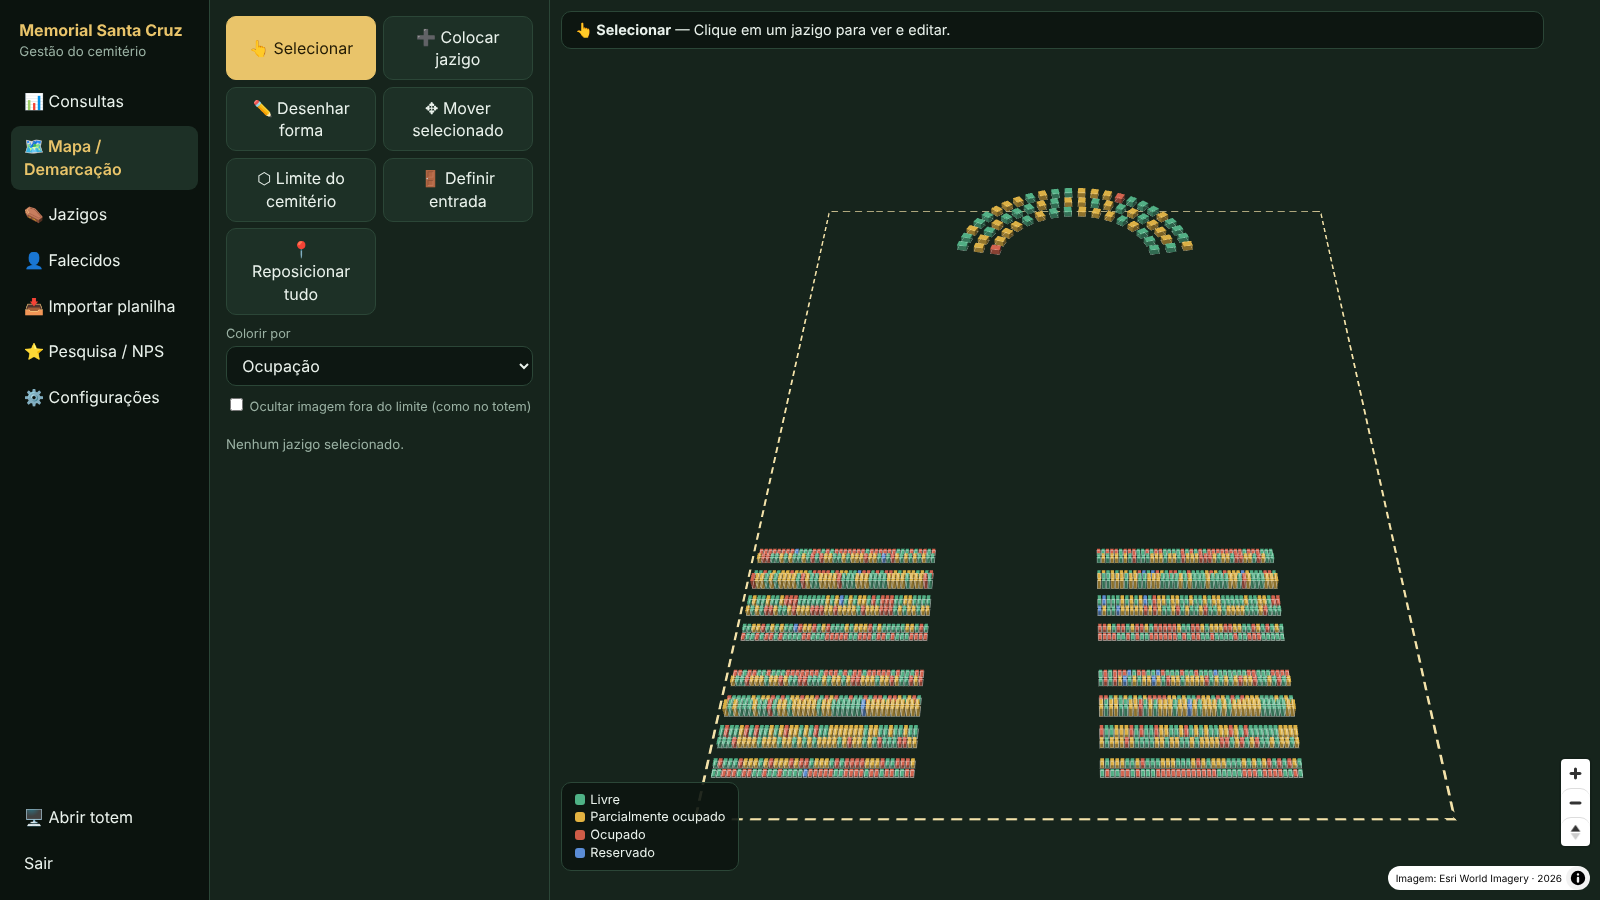
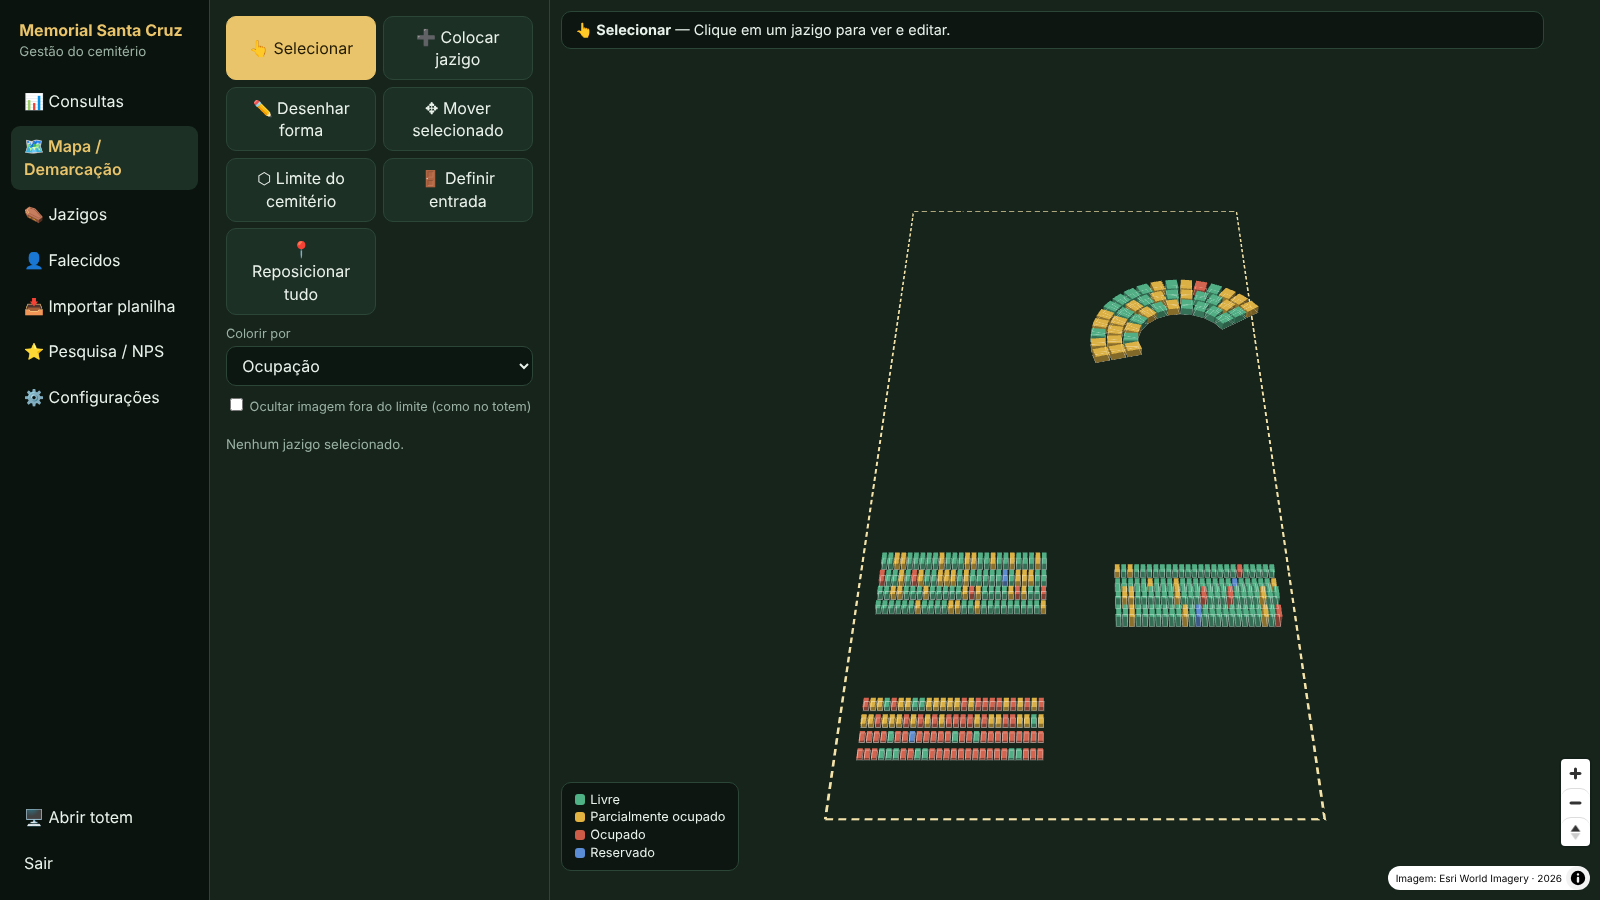
Layout de demonstração no formato real (6 alamedas, anfiteatro), escala/rotação do layout e seed único
Claude-Session: https://claude.ai/code/session_013UyDinwhvvSYJNZEQaNqQd

diff --git a/seed.js b/seed.js
@@ -18,9 +18,10 @@ export function seedDemo({ db, TYPES, getConfig, setConfig, norm, tx }) {
     return { type: 'Polygon', coordinates: [[...pts, pts[0]]] };
   };
 
-  const W = 240, H = 330; // terreno
+  // Terreno estreito (≈110 × 230 m, estimado a partir das imagens de satélite): entrada ao sul, anfiteatro ao norte/direita.
+  const W = 110, H = 230;
   const boundary = { type: 'Polygon', coordinates: [[pt(-W / 2, -H / 2), pt(W / 2, -H / 2), pt(W / 2, H / 2), pt(-W / 2, H / 2), pt(-W / 2, -H / 2)]] };
-  setConfig({ ...cfg, boundary, entrance: pt(0, -H / 2 + 4), zoom: 17.3 });
+  setConfig({ ...cfg, boundary, entrance: pt(13, -H / 2 + 3), zoom: 17.6, bearing: 0, pitch: 50 });
 
   const insPlot = db.prepare('INSERT INTO plots(code,type,alameda,quadra,lote,geometry,demo,reserved) VALUES(?,?,?,?,?,?,1,?)');
   const insDec = db.prepare('INSERT INTO deceased(name,name_norm,plot_id,drawer,kind,birth_date,death_date,event_date,responsible,phone,notes,demo) VALUES(?,?,?,?,?,?,?,?,?,?,?,1)');
@@ -41,38 +42,40 @@ export function seedDemo({ db, TYPES, getConfig, setConfig, norm, tx }) {
   }
 
   tx(() => {
-    // 4 quadras (A–D) na parte da frente, cada uma com alamedas; tipo varia por fileira
-    const rowTypes = ['1G', '2G', '3G', '3GS', '6GS', '2G', '3G', '1G'];
-    const blocks = [['A', -118, -150], ['B', 8, -150], ['C', -118, -95], ['D', 8, -95]];
-    for (const [q, bx, by] of blocks) {
-      const cols = 40, colW = 1.2 + 0.45;
-      let y = by;
-      for (let r = 0; r < rowTypes.length; r++) {
-        const type = rowTypes[r], t = TYPES[type], rowH = t.h;
-        const alameda = String(Math.floor(r / 2) + 1);
-        for (let c = 0; c < cols; c++) {
-          const x = bx + c * colW + colW / 2;
-          const code = `${q}-${alameda}-${String(r * cols + c + 1).padStart(3, '0')}`;
-          const reserved = rnd() < 0.05 ? 1 : 0;
-          const id = Number(insPlot.run(code, type, `Alameda ${alameda}`, `Quadra ${q}`, String(r * cols + c + 1), JSON.stringify(rect(x, y + rowH / 2, t.w, rowH, 0)), reserved).lastInsertRowid);
-          if (rnd() < 0.6) fill(id, type, 1 + Math.floor(rnd() * TYPES[type].cap));
+    // 6 alamedas em 3 quadras (gramados à esquerda e à direita da alameda central). Cada alameda = corredor com uma fileira de jazigos de cada lado.
+    // [quadra, x0, x1, y0, [[alameda, tipo]...], ocupação]
+    const quadras = [
+      ['A', -50, -6, -100, [[1, '1G'], [2, '2G']], 0.85],   // sul-esquerda: onde já há sepulturas
+      ['B', -50, -6, -58, [[3, '3G'], [4, '3GS']], 0.3],    // gramado esquerdo (expansão)
+      ['C', 10, 52, -62, [[5, '6GS'], [6, '3G']], 0.2],     // gramado direito (expansão)
+    ];
+    for (const [q, x0, x1, y0, alamedas, occ] of quadras) {
+      const colW = 1.2 + 0.45, cols = Math.floor((x1 - x0) / colW);
+      let y = y0, n = 0;
+      for (const [al, type] of alamedas) {
+        const t = TYPES[type];
+        for (const side of [0, 1]) {            // 0 = fileira sul, 1 = fileira norte (corredor de 2 m entre elas)
+          const cy = y + (side ? t.h + 2 + t.h / 2 : t.h / 2);
+          for (let c = 0; c < cols; c++) {
+            n++;
+            const code = `${q}-${al}-${String(n).padStart(3, '0')}`;
+            const id = Number(insPlot.run(code, type, `Alameda ${al}`, `Quadra ${q}`, String(n), JSON.stringify(rect(x0 + c * colW + colW / 2, cy, t.w, t.h, 0)), rnd() < 0.04 ? 1 : 0).lastInsertRowid);
+            if (rnd() < occ) fill(id, type, 1 + Math.floor(rnd() * TYPES[type].cap));
+          }
         }
-        y += rowH + (r % 2 === 1 ? 5 : 0.9); // alameda (corredor) a cada duas fileiras
+        y += 2 * t.h + 2 + 1.5;
       }
     }
-    // Anfiteatro ao fundo + terrenos familiares ao redor (anéis de blocos 6 gavetas c/ área de serviço)
-    const cx = 0, cy = 125;
-    const rings = [[38, 16], [46, 20], [54, 24]];
+    // Anfiteatro (centro da concha ≈ 33 m a leste, 46 m ao norte) com terrenos familiares em leque ao redor
+    const cx = 33, cy = 46;
     let n = 0;
-    rings.forEach(([R, count], ri) => {
+    [[16, 11], [21, 14], [26, 17]].forEach(([R, count], ri) => {
       for (let i = 0; i < count; i++) {
-        const ang = Math.PI + (i + 0.5) * (Math.PI / count) * -1 + Math.PI; // semicírculo voltado para o fundo
-        const a = Math.PI * (0.06 + (0.88 * i) / (count - 1));            // 0..π (lado norte)
-        const x = cx + R * Math.cos(a), y = cy + R * Math.sin(a);
-        const rot = (a * 180) / Math.PI - 90;
+        const a = ((35 + (160 * i) / (count - 1)) * Math.PI) / 180;
         n++;
-        const id = Number(insPlot.run(`F-${String(n).padStart(2, '0')}`, 'FAM', `Anel ${ri + 1}`, 'Anfiteatro', String(n), JSON.stringify(rect(x, y, TYPES.FAM.w, TYPES.FAM.h, rot)), 0).lastInsertRowid);
-        if (rnd() < 0.55) fill(id, 'FAM', 1 + Math.floor(rnd() * 6));
+        const id = Number(insPlot.run(`F-${String(n).padStart(2, '0')}`, 'FAM', `Anel ${ri + 1}`, 'Anfiteatro', String(n),
+          JSON.stringify(rect(cx + R * Math.cos(a), cy + R * Math.sin(a), TYPES.FAM.w, TYPES.FAM.h, (a * 180) / Math.PI - 90)), 0).lastInsertRowid);
+        if (rnd() < 0.5) fill(id, 'FAM', 1 + Math.floor(rnd() * 6));
       }
     });
     // Histórico fictício de consultas no totem (45 dias) e respostas da pesquisa

diff --git a/server.js b/server.js
@@ -341,17 +341,21 @@ route('PUT', '/api/admin/config', ({ body }) => {
   for (const k of allowed) if (k in body) cur[k] = body[k];
   setConfig(cur); return { ok: true };
 }, A);
-route('POST', '/api/admin/recenter', ({ body }) => { // desloca todo o mapa para um novo centro
-  const { dLng, dLat } = body;
-  if (![dLng, dLat].every(Number.isFinite)) return { __status: 400, error: 'delta inválido' };
-  const shift = (g) => ({ ...g, coordinates: g.coordinates.map((ring) => ring.map(([x, y]) => [x + dLng, y + dLat])) });
+route('POST', '/api/admin/recenter', ({ body }) => { // desloca / escala / gira todo o layout em torno do centro
+  const dLng = Number(body.dLng ?? 0), dLat = Number(body.dLat ?? 0), scale = Number(body.scale ?? 1), rot = Number(body.rotDeg ?? 0);
+  if (![dLng, dLat, scale, rot].every(Number.isFinite) || scale <= 0 || scale > 20) return { __status: 400, error: 'parâmetros inválidos' };
+  const c0 = getConfig().center, kLat = 111320, kLng = 111320 * Math.cos((c0[1] * Math.PI) / 180);
+  const a = (rot * Math.PI) / 180, cs = Math.cos(a), sn = Math.sin(a);
+  const tf = ([x, y]) => { const dx = (x - c0[0]) * kLng * scale, dy = (y - c0[1]) * kLat * scale;
+    return [+(c0[0] + dLng + (dx * cs - dy * sn) / kLng).toFixed(8), +(c0[1] + dLat + (dx * sn + dy * cs) / kLat).toFixed(8)]; };
+  const shift = (g) => ({ ...g, coordinates: g.coordinates.map((ring) => ring.map(tf)) });
   tx(() => {
     for (const p of db.prepare('SELECT id,geometry FROM plots WHERE geometry IS NOT NULL').all())
       db.prepare('UPDATE plots SET geometry=? WHERE id=?').run(JSON.stringify(shift(JSON.parse(p.geometry))), p.id);
     const c = getConfig();
-    c.center = [c.center[0] + dLng, c.center[1] + dLat];
+    c.center = [c0[0] + dLng, c0[1] + dLat];
     if (c.boundary) c.boundary = shift(c.boundary);
-    if (c.entrance) c.entrance = [c.entrance[0] + dLng, c.entrance[1] + dLat];
+    if (c.entrance) c.entrance = tf(c.entrance);
     setConfig(c);
   });
   return { ok: true };
@@ -471,8 +475,9 @@ const server = http.createServer(async (req, res) => {
   } catch (e) { console.error(e); J(res, { error: e.message }, 500); }
 });
 
-if (db.prepare('SELECT COUNT(*) n FROM plots').get().n === 0 && process.env.NO_DEMO !== '1') {
-  console.log('Banco vazio: criando dados de demonstração…');
+if (!db.prepare("SELECT 1 FROM settings WHERE key='seeded'").get() && process.env.NO_DEMO !== '1' && db.prepare('SELECT COUNT(*) n FROM plots').get().n === 0) {
+  console.log('Banco novo: criando dados de demonstração…');
   seedDemo({ db, TYPES, getConfig, setConfig, norm, tx });
 }
+db.prepare("INSERT OR IGNORE INTO settings(key,value) VALUES('seeded','1')").run();
 server.listen(PORT, () => console.log(`Totem:  http://localhost:${PORT}/\nAdmin:  http://localhost:${PORT}/admin.html  (usuário: ${ADMIN_USER})`));

diff --git a/public/admin-map.js b/public/admin-map.js
@@ -57,11 +57,14 @@ export async function mapView(main, ctx) {
       <label>Colorir por</label><select id="cm"><option value="status">Ocupação</option><option value="type">Tipo de jazigo</option><option value="heat">Consultas (mapa de calor)</option></select>
       <label><input type="checkbox" id="mask" style="width:auto"> Ocultar imagem fora do limite (como no totem)</label>
       ${st.mode === 'place' || st.mode === 'poly' ? placeForm() : ''}
+      ${st.mode === 'recenter' ? `<h3>Escalar / girar tudo</h3><div class="f2"><div><label>Escala (%)</label><input id="rs" type="number" value="100" min="10" max="1000"></div><div><label>Girar (°)</label><input id="rr" type="number" value="0" min="-180" max="180"></div></div>
+        <button id="rapply" style="margin-top:.6rem">Aplicar (em torno do centro)</button><br><small class="m">Use para ajustar o tamanho e a orientação do layout à imagem real. Para mover, clique no mapa.</small>` : ''}
       ${st.mode === 'boundary' || st.mode === 'poly' ? `<div class="row2" style="margin-top:.8rem"><button class="primary" id="finish">Concluir (${st.draft.length} pontos)</button><button id="cancel">Cancelar</button></div>` : ''}
       <div id="selbox"></div>`;
     $('#cm').value = cem.colorMode; $('#mask').checked = maskOn;
     $('#cm').onchange = (e) => setColor(e.target.value); $('#mask').onchange = (e) => { maskOn = e.target.checked; cem.setMask(maskOn); };
     $$('.tools button', $('#side')).forEach((b) => (b.onclick = () => setMode(b.dataset.m)));
+    $('#rapply') && ($('#rapply').onclick = async () => { await api('/api/admin/recenter', { method: 'POST', body: { scale: Number($('#rs').value) / 100, rotDeg: Number($('#rr').value) } }); toast('Layout ajustado'); go('map'); });
     $('#finish') && ($('#finish').onclick = finishDraft); $('#cancel') && ($('#cancel').onclick = () => setMode(st.mode));
     bindPlaceForm(); renderSel();
   }
